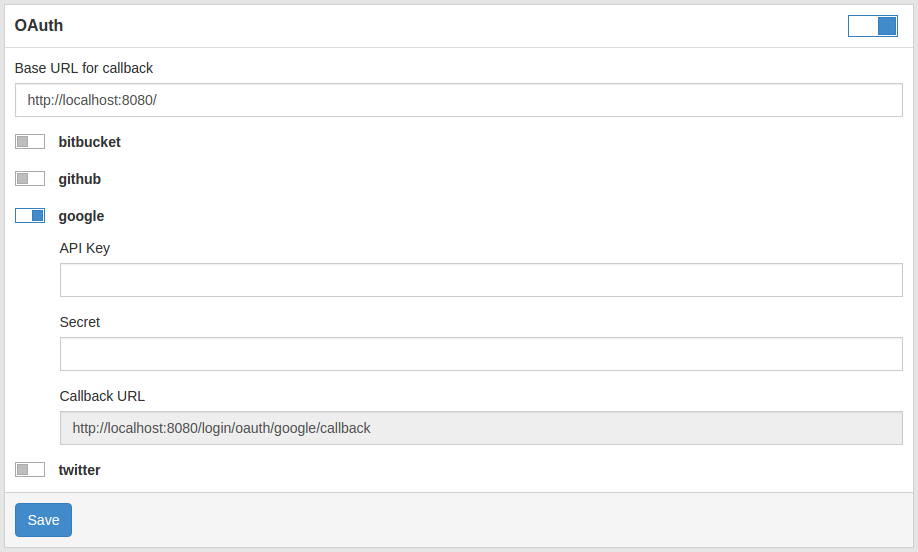
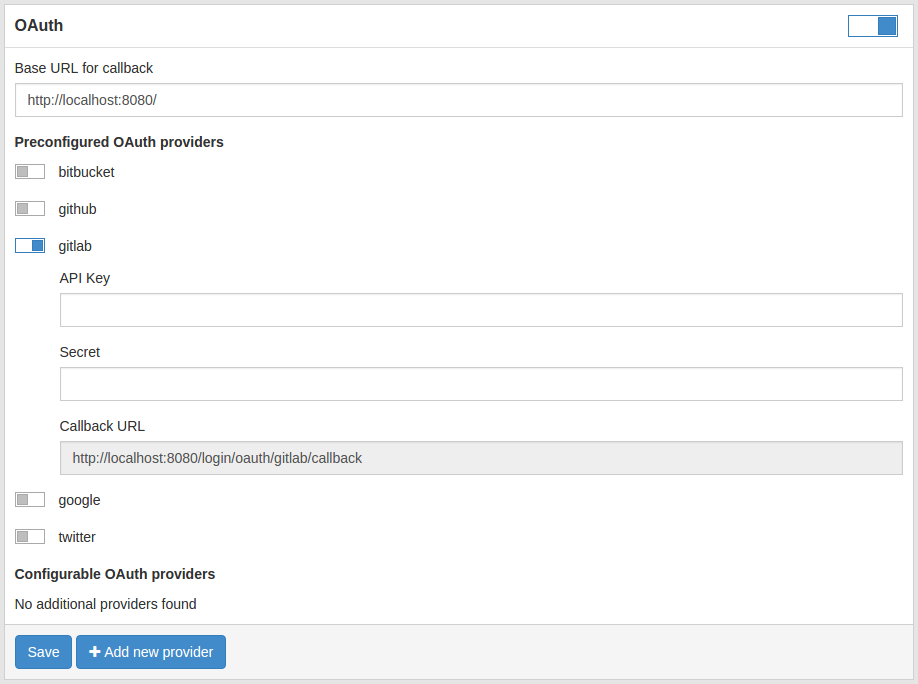
#8 add documentation

diff --git a/src/main/webapp/setup/index.html b/src/main/webapp/setup/index.html
@@ -265,7 +265,7 @@
                     </div>
 				</div>
 			</div>
-			<div  class="buttons">
+			<div  class="buttons" style="margin-top:10px">
 				<input type="submit" value="Next" class="lvg-button lvg-button-submit">
 				<button type="button" class="lvg-button lvg-button-default back-button" data-ng-click="back('first-step')">Back</button>
 			</div>

diff --git a/src/main/stampo/doc/03-configuration-and-administration/03-02-login-providers.en.peb.md b/src/main/stampo/doc/03-configuration-and-administration/03-02-login-providers.en.peb.md
@@ -49,9 +49,19 @@ The default Audience value is most likely correct.
 
 #### Oauth 
 
-The application support the following external oauth providers: bitbucket, gitlab, github, google, twitter.
+The application support the following external oauth providers:
+ 
+  - [bitbucket](https://bitbucket.org)
+  - [gitlab](https://about.gitlab.com/gitlab-com/)
+  - [github](https://github.com)
+  - [google](https://google.com)
+  - [twitter](https://twitter.com)
+  
+Additionally, self-hosted gitlab instances can be configured with the "Add new provider" functionality.
 
 <img class="pure-img" src="{{relativeRootPath}}/images/en/c03_admin_login_oauth.png" alt="Oauth provider">
+
+#### Preconfigured oauth providers
 
 Select the oauth provider of the first account and provide the api key and secret. The provided callback url should be the correct one that must be provided.
 
@@ -62,3 +72,20 @@ See the documentation for:
  - [github](https://developer.github.com/v3/oauth/). Registration page is https://github.com/settings/applications/new
  - [google](https://developers.google.com/identity/protocols/OAuth2WebServer): the "Google+ API" must be enabled
  - [twitter](https://dev.twitter.com/web/sign-in/implementing)
+
+#### Configurable oauth providers
+
+In the case of self-hosted oauth providers (currently only gitlab is supported), they can be configured by clicking the "Add new provider" button.  
+
+Please note that if you are using **self signed certificates** you _must_ include them in the default keystore of your java virtual machine. See the [keytool](https://docs.oracle.com/javase/8/docs/technotes/tools/unix/keytool.html#keytool_option_importcert) documentation and this [stackoverflow post](http://stackoverflow.com/a/11617655). Lavagna will **not** provide a way to ignore untrusted certificates. 
+
+It will open the following modal window:
+
+<img class="pure-img" src="{{relativeRootPath}}/images/en/c03_admin_login_oauth_configurable.png" alt="Add new configurable Oauth provider modal window">
+
+Select the type (currently only gitlab is available) and insert the name, the base url, the api key and secret. Copy the provided callback url in your oauth provider configuration screen. Save the provider by clicking the "Add new provider" button.
+
+The new providers will appear in the section "Configurable OAuth providers", it can be :
+
+ - updated by changing the values and clicking the "Save" button
+ - deleted by clicking on the toggle and clicking the "Save" button

diff --git a/src/main/stampo/doc/02-install/02-03-setup.en.peb.md b/src/main/stampo/doc/02-install/02-03-setup.en.peb.md
@@ -48,9 +48,19 @@ The default Audience value is most likely correct.
 
 #### Oauth provider
 
-The application support the following external oauth providers: bitbucket, gitlab.com, github, google, twitter.
+The application support the following external oauth providers: 
+
+ - bitbucket 
+ - gitlab.com
+ - github
+ - google
+ - twitter
+ 
+Additionally, self-hosted/others external gitlab instances can be configured in the Custom Oauth provider section.
 
 <img class="pure-img" src="{{relativeRootPath}}/images/en/c02_install_step_2_oauth.png" alt="Oauth provider">
+
+#### Preconfigured oauth providers
 
 Select the oauth provider of the first account and provide the api key and secret. The provided callback url should be the correct one that must be provided.
 
@@ -61,6 +71,14 @@ See the documentation for:
  - [github](https://developer.github.com/v3/oauth/). Registration page is https://github.com/settings/applications/new
  - [google](https://developers.google.com/identity/protocols/OAuth2WebServer): the "Google+ API" must be enabled
  - [twitter](https://dev.twitter.com/web/sign-in/implementing)
+ 
+#### Custom oauth providers
+
+If you have a self-hosted (or others) gitlab instance, you can configure in the "Custom oauth providers" section.
+Select the type, enter the name, the base url, api key and api secret.
+
+Please note that if you are using **self signed certificates** you _must_ include them in the default keystore of your java virtual machine. See the [keytool](https://docs.oracle.com/javase/8/docs/technotes/tools/unix/keytool.html#keytool_option_importcert) documentation and this [stackoverflow post](http://stackoverflow.com/a/11617655). Lavagna will **not** provide a way to ignore untrusted certificates. 
+
 
 
 ### Step 3 Insert administator
